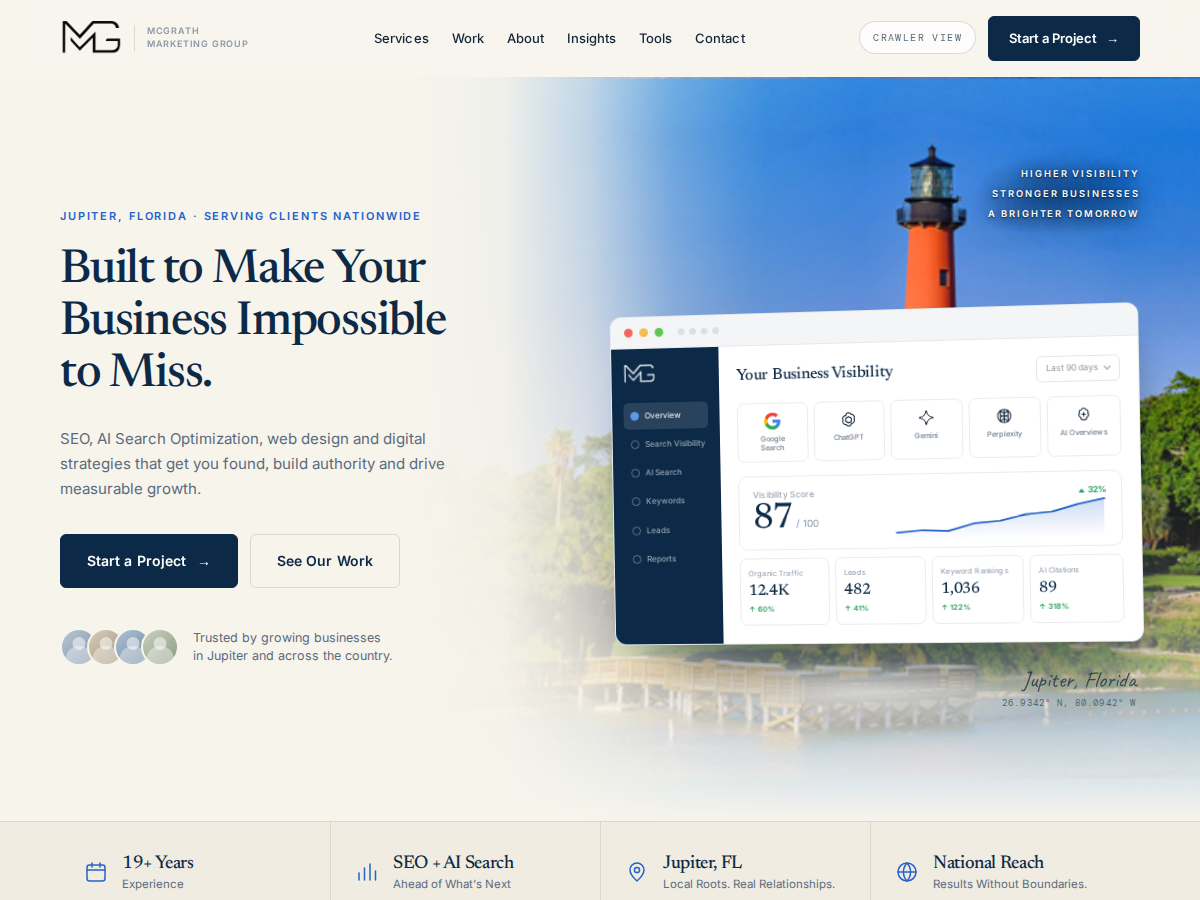
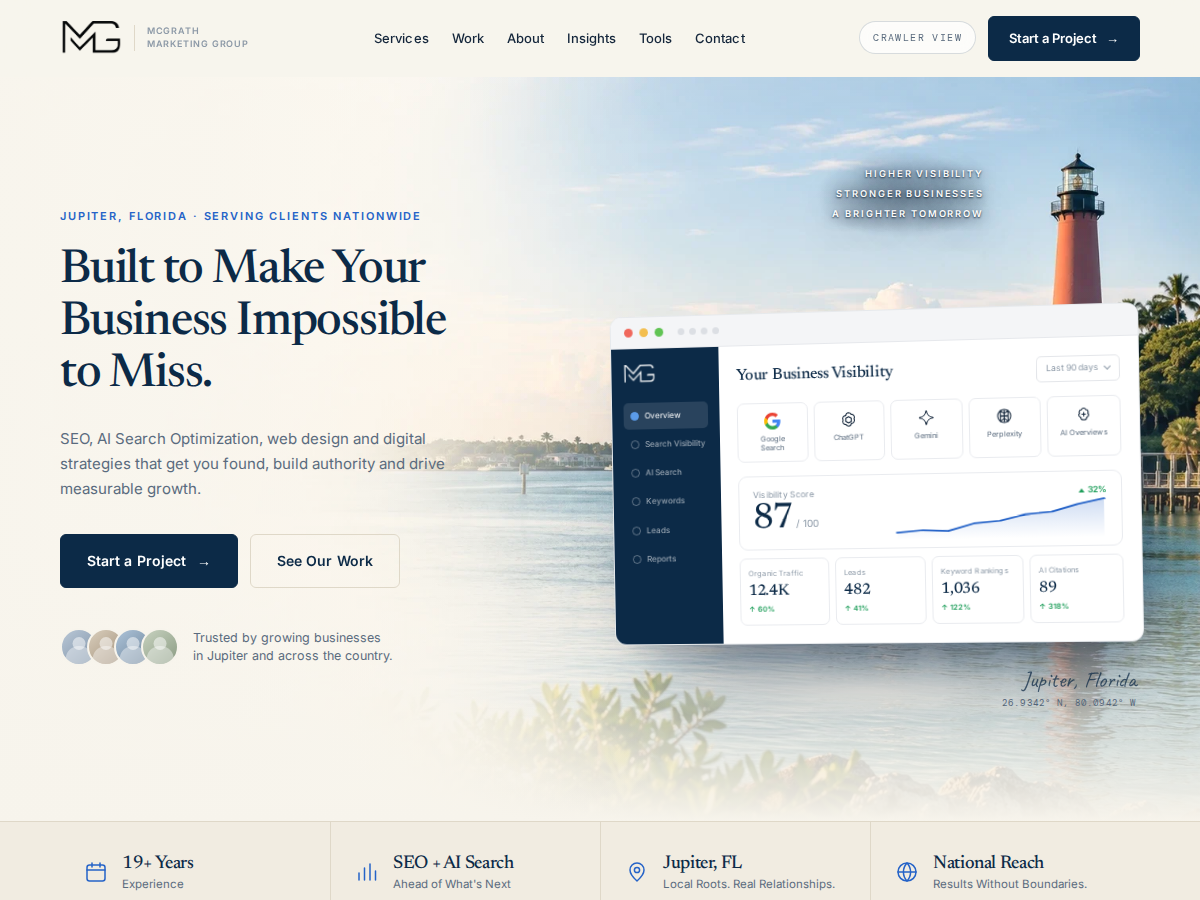
Adopt the supplied artwork, and the wide photograph for the hero
Six duotone plates now open the inner pages — the light over a rising chart on
SEO, a laptop on a seawall on Web Design, queries converging on one brand on AI
Visibility, the shoreline on About, a nautical chart of the Palm Beach coast on
Contact, and the brief on the blog. The page hero is rebuilt around them: a
wider text column beside a capped, rounded plate, because the art is square and
a full-width square made the band enormous.

mcg_page_art() prefers assets/img/page-{name}.* and falls back to the drawn
glyph, so a page never opens on an empty column and swapping art is a file drop.

The homepage hero takes the wide photograph. It carries its own fade on the
left, so the inset, the zoom and most of the horizontal veil all come off — the
image runs the full width at plain cover, and the veil now only guarantees the
headline a clean field instead of washing across the middle a second time. The
light stands at the right of this frame, so the three overlay words move to the
open sky beside it rather than across the tower.

The drawn Florida map is gone from the Jupiter section. It was the weakest thing
on the page and it sat directly beside real artwork.

The supplied files were 2048px squares at 1.8MB total, for slots about 420px
wide. Resampled to 900px (1920 for the hero) and re-encoded: 644KB for all eight
images, and the whole theme is now 1.1MB.

Verified at 390, 768, 1024, 1280, 1440 and 2000, plus crawler view: no
[…]

Changed region(s): [[0.3392, 0.0622, 1.0, 0.8711], [0.6167, 0.84, 0.6475, 0.8711]]

diff --git a/themes/mcgrath-chrome/style.css b/themes/mcgrath-chrome/style.css
@@ -211,7 +211,7 @@ body.crawl .vmode{background:var(--navy);color:var(--cream);border-color:var(--n
 }
 
 .heroPhoto{position:absolute;inset:0;overflow:hidden;z-index:0;}
-.heroPhoto .ph{position:absolute;inset:0 0 0 26%;filter:saturate(1.08) contrast(1.05);}
+.heroPhoto .ph{position:absolute;inset:0;filter:saturate(1.04) contrast(1.02);}
 .heroPhoto .ph .grade{display:none;}   /* the veil below does that job instead */
 
 /* Two passes: the paper reclaiming the left, and the floor of the section
@@ -219,14 +219,15 @@ body.crawl .vmode{background:var(--navy);color:var(--cream);border-color:var(--n
 .heroPhoto .veil{
   position:absolute;inset:0;
   background:
+    /* light touch: the photograph already fades itself out on the left, so
+       this only guarantees the headline a clean field and then gets out of
+       the way rather than washing across the middle a second time */
     linear-gradient(90deg,
-      var(--cream) 0%,
-      var(--cream) 34%,
-      rgba(247,244,236,.96) 42%,
-      rgba(247,244,236,.74) 49%,
-      rgba(247,244,236,.36) 56%,
-      rgba(247,244,236,.10) 64%,
-      rgba(247,244,236,0) 72%,
+      rgba(247,244,236,.88) 0%,
+      rgba(247,244,236,.70) 18%,
+      rgba(247,244,236,.38) 32%,
+      rgba(247,244,236,.12) 44%,
+      rgba(247,244,236,0) 56%,
       rgba(247,244,236,0) 100%),
     linear-gradient(180deg,
       rgba(247,244,236,.14) 0%,
@@ -279,7 +280,10 @@ body.crawl .vmode{background:var(--navy);color:var(--cream);border-color:var(--n
 .heroScene{position:relative;min-width:0;}
 
 .tag{
-  display:block;margin:0 0 clamp(34px,7vw,118px) auto;width:max-content;max-width:100%;
+  /* the light stands at the right of this photograph, so the words sit to its
+     left over open sky rather than across the tower */
+  display:block;width:max-content;max-width:100%;
+  margin:0 clamp(140px,13vw,210px) clamp(34px,7vw,118px) auto;
   text-align:right;position:relative;
   font-family:var(--body);font-weight:600;font-size:clamp(9px,.78vw,10.5px);
   letter-spacing:.2em;text-transform:uppercase;color:#fff;line-height:2.15;
@@ -747,20 +751,13 @@ body.crawl .vmode{background:var(--navy);color:var(--cream);border-color:var(--n
 .rootsBody > div > p{margin-top:20px;font-size:14.5px;line-height:1.7;color:var(--ink-70);max-width:44ch;}
 .rootsBody b.hl{font-weight:600;color:var(--navy);}
 .rootsBody .btn{margin-top:26px;}
-.rootsSide{position:relative;display:grid;grid-template-columns:minmax(0,1fr) auto;gap:clamp(12px,2vw,26px);align-items:center;}
+.rootsSide{position:relative;}
 .rootsList{list-style:none;margin:0;padding:0;display:flex;flex-direction:column;gap:20px;}
 .rootsList li{display:flex;align-items:flex-start;gap:12px;}
 .rootsList svg{width:19px;height:19px;flex:0 0 auto;color:var(--blue);margin-top:1px;}
 .rootsList b{display:block;font-size:13px;font-weight:600;color:var(--navy);line-height:1.25;}
 .rootsList span{display:block;font-size:12px;color:var(--ink-70);margin-top:3px;}
-.flMap{position:relative;width:clamp(84px,7.6vw,116px);opacity:.95;pointer-events:none;}
-.flMap svg{width:100%;height:auto;display:block;}
-.flMap .land{fill:#DCE6F0;stroke:#C4D3E2;stroke-width:1;}
-.flMap .pin{fill:var(--blue);}
-.flMap .ring{fill:none;stroke:var(--blue);stroke-width:1.4;opacity:.45;}
-.flMap .script{position:absolute;right:-12%;top:8%;font-size:clamp(14px,1.4vw,19px);transform:rotate(-8deg);white-space:nowrap;}
 @media(max-width:1240px){
-  .flMap{display:none;}
   .rootsSide{grid-template-columns:1fr;}
 }
 @media(max-width:980px){
@@ -922,6 +919,7 @@ body.crawl .brand .mark,body.crawl .footBrand .mark,body.crawl .dashNav .dlogo i
 }
 body.crawl .glyph .g-hole{fill:#080C0A;}
 body.crawl .phero::before{display:none;}
+body.crawl .pArt img{filter:grayscale(1) brightness(.42) sepia(1) hue-rotate(75deg) saturate(3.2);}
 body.crawl .heroPhoto .ph,body.crawl .rootsPic .ph{filter:grayscale(1) brightness(.4) sepia(1) hue-rotate(75deg) saturate(3);}
 body.crawl .heroPhoto .veil{background:linear-gradient(90deg,#06080A 0%,#06080A 34%,rgba(6,8,10,.86) 52%,rgba(6,8,10,.5) 74%,rgba(6,8,10,.25) 100%),linear-gradient(180deg,rgba(6,8,10,.5) 0%,rgba(6,8,10,0) 40%,rgba(6,8,10,.8) 88%,#06080A 100%);}
 body.crawl .tag{color:#9FF3B8;text-shadow:none;}
@@ -983,6 +981,7 @@ body.crawl .navcta{background:#0A120D;color:#9FF3B8;border-color:#1F5236;}
 
 .phero{
   position:relative;overflow:hidden;background:var(--cream-2);
+  --art-cream:#FAF7EF;
   border-bottom:1px solid var(--line);padding-block:clamp(44px,5.5vw,80px);
 }
 /* a quiet wash, so the band is not a flat rectangle */
@@ -994,17 +993,25 @@ body.crawl .navcta{background:#0A120D;color:#9FF3B8;border-color:#1F5236;}
 }
 .phero .pin{
   position:relative;z-index:2;max-width:var(--maxw);margin-inline:auto;
-  display:grid;grid-template-columns:minmax(0,1fr) auto;
-  gap:clamp(24px,4vw,64px);align-items:center;
+  display:grid;grid-template-columns:minmax(0,1.3fr) minmax(0,.7fr);
+  gap:clamp(24px,4vw,56px);align-items:center;
 }
-.pheroTxt{min-width:0;max-width:56ch;}
+.pheroTxt{min-width:0;max-width:52ch;}
 .phero .mono{color:var(--blue);letter-spacing:.17em;font-weight:500;}
 .phero h1{font-size:clamp(30px,4.2vw,56px);letter-spacing:-.03em;margin-top:14px;line-height:1.06;}
 .phero .sub{margin-top:18px;max-width:56ch;font-size:clamp(15px,1.35vw,17.5px);line-height:1.65;color:var(--ink-70);}
 .phero .plogo{height:30px;width:auto;margin-bottom:18px;display:block;opacity:.85;}
 
 /* ---------- page glyphs: one drawn figure per section ---------- */
-.glyph{width:clamp(150px,17vw,232px);flex:0 0 auto;}
+/* the artwork: a plate, rounded and softly lifted off the band. Capped,
+   because the art is square and a full-width square makes the band enormous. */
+.pArt{margin:0 0 0 auto;min-width:0;width:100%;max-width:clamp(240px,30vw,420px);}
+.pArt img{
+  display:block;width:100%;height:auto;border-radius:16px;
+  box-shadow:0 30px 60px -38px rgba(12,42,71,.4),0 3px 12px -8px rgba(12,42,71,.1);
+}
+/* the drawn glyph is the fallback when a page has no artwork yet */
+.glyph{width:clamp(150px,17vw,232px);margin-inline:auto;}
 .glyph svg{width:100%;height:auto;display:block;overflow:visible;}
 .glyph .g-line,.glyph .g-bar,.glyph .g-node,.glyph .g-accent{
   stroke:var(--navy);stroke-width:2.2;stroke-linecap:round;stroke-linejoin:round;fill:none;
@@ -1022,6 +1029,8 @@ body.crawl .navcta{background:#0A120D;color:#9FF3B8;border-color:#1F5236;}
 .glyph--aeo .g-fill{fill:var(--blue);}
 @media(max-width:860px){
   .phero .pin{grid-template-columns:minmax(0,1fr);}
+  .pheroTxt{max-width:none;}
+  .pArt{margin-inline:0;max-width:380px;}
   .glyph{display:none;}
 }
 

diff --git a/themes/mcgrath-chrome/front-page.php b/themes/mcgrath-chrome/front-page.php
@@ -19,7 +19,7 @@ get_header();
 	     dissolves leftward into the paper, so the headline sits on clean ground
 	     and the dashboard floats over open water. -->
 	<div class="heroPhoto" aria-hidden="true">
-		<?php mcg_plate( 'hero', '', '18% 4%', '118% auto' ); ?>
+		<?php mcg_plate( 'hero', '', '50% 34%' ); ?>
 		<span class="veil"></span>
 	</div>
 
@@ -343,7 +343,7 @@ echo '<span data-q class="mk">' . esc_html( wp_strip_all_tags( $mcg_mark ) ) . '
 
 <!-- ======================= JUPITER ROOTS ========================= -->
 <section class="roots" id="home-base">
-	<div class="rootsPic" aria-hidden="true"><?php mcg_plate( 'roots', '', '62% 46%' ); ?></div>
+	<div class="rootsPic" aria-hidden="true"><?php mcg_plate( 'roots', '', '50% 50%' ); ?></div>
 
 	<div class="rootsBody">
 		<div class="rv">
@@ -371,14 +371,6 @@ echo '<span data-q class="mk">' . esc_html( wp_strip_all_tags( $mcg_mark ) ) . '
 				<?php endforeach; ?>
 			</ul>
 
-			<div class="flMap" aria-hidden="true">
-				<svg viewBox="0 0 150 190">
-					<path class="land" d="M14 12h66l6 18 10 8 6 22 12 10 8 20-2 24-10 26-10 22-12 18-14 8-10-4-4-14 6-18 8-18 4-20-6-16-14-10-20-6-16-12-8-16-2-18 2-24Z"/>
-					<circle class="ring" cx="112" cy="118" r="11"/>
-					<circle class="pin" cx="112" cy="118" r="4.4"/>
-				</svg>
-				<span class="script"><?php esc_html_e( 'Jupiter, FL', 'mcgrath-chrome' ); ?></span>
-			</div>
 		</div>
 	</div>
 </section>

diff --git a/themes/mcgrath-chrome/inc/content.php b/themes/mcgrath-chrome/inc/content.php
@@ -326,3 +326,31 @@ function mcg_social() {
 	}
 	return $out;
 }
+
+/**
+ * A page's opening figure. Uses the artwork in assets/img/page-{name}.* when it
+ * is there, and falls back to the drawn glyph when it is not — so a page never
+ * opens on an empty column, and swapping art is a file drop.
+ *
+ * @param string $name seo | webdesign | aeo | about | contact | writing
+ * @param string $alt  Alternative text; empty marks it decorative.
+ */
+function mcg_page_art( $name, $alt = '' ) {
+	$dir = get_template_directory() . '/assets/img/';
+	$uri = get_template_directory_uri() . '/assets/img/';
+
+	foreach ( array( 'webp', 'jpg', 'jpeg', 'png' ) as $ext ) {
+		$file = 'page-' . $name . '.' . $ext;
+		if ( file_exists( $dir . $file ) ) {
+			printf(
+				'<figure class="pArt"><img src="%s" alt="%s" width="900" height="880" loading="lazy" decoding="async"%s></figure>',
+				esc_url( $uri . $file ),
+				esc_attr( $alt ),
+				$alt ? '' : ' aria-hidden="true"'
+			);
+			return;
+		}
+	}
+
+	mcg_glyph( $name );
+}

diff --git a/themes/mcgrath-chrome/template-contact.php b/themes/mcgrath-chrome/template-contact.php
@@ -15,7 +15,7 @@ get_header();
 			<h1 data-tag="&lt;h1&gt;"><?php esc_html_e( 'Get a Free Jupiter SEO Audit', 'mcgrath-chrome' ); ?></h1>
 			<p class="sub"><?php esc_html_e( 'I will look at your rankings, your site health and whether AI answers mention you at all, then send back the three things worth fixing first. It costs nothing and you keep the findings either way.', 'mcgrath-chrome' ); ?></p>
 		</div>
-		<?php mcg_glyph( 'contact' ); ?>
+		<?php mcg_page_art( 'contact', 'A nautical chart of the Palm Beach coast with Jupiter marked' ); ?>
 	</div>
 </section>
 

diff --git a/themes/mcgrath-chrome/template-aeo.php b/themes/mcgrath-chrome/template-aeo.php
@@ -15,7 +15,7 @@ get_header();
 			<h1 data-tag="&lt;h1&gt;"><?php esc_html_e( 'Get Cited by AI, Not Just Ranked', 'mcgrath-chrome' ); ?></h1>
 			<p class="sub"><?php esc_html_e( 'When a buyer asks ChatGPT, Gemini, Perplexity or a Google AI Overview who to call in Jupiter, three names come back. This is the work that makes one of them yours.', 'mcgrath-chrome' ); ?></p>
 		</div>
-		<?php mcg_glyph( 'aeo' ); ?>
+		<?php mcg_page_art( 'aeo', 'Search queries from Google, ChatGPT, Gemini and Perplexity converging on one brand' ); ?>
 	</div>
 </section>
 

diff --git a/themes/mcgrath-chrome/template-seo.php b/themes/mcgrath-chrome/template-seo.php
@@ -15,7 +15,7 @@ get_header();
 			<h1 data-tag="&lt;h1&gt;"><?php esc_html_e( 'SEO Company in Jupiter, FL', 'mcgrath-chrome' ); ?></h1>
 			<p class="sub"><?php esc_html_e( 'Local and national search work for businesses in Jupiter, Palm Beach Gardens and Tequesta. Run by the person who does it, priced in the open, with no long contract.', 'mcgrath-chrome' ); ?></p>
 		</div>
-		<?php mcg_glyph( 'seo' ); ?>
+		<?php mcg_page_art( 'seo', 'Jupiter Inlet lighthouse over a rising chart of search rankings' ); ?>
 	</div>
 </section>
 

diff --git a/themes/mcgrath-chrome/template-webdesign.php b/themes/mcgrath-chrome/template-webdesign.php
@@ -15,7 +15,7 @@ get_header();
 			<h1 data-tag="&lt;h1&gt;"><?php esc_html_e( 'Web Design in Jupiter, FL', 'mcgrath-chrome' ); ?></h1>
 			<p class="sub"><?php esc_html_e( 'Custom WordPress sites for Palm Beach County businesses. Fast, built to rank from launch day, and handed over so you own every part of it.', 'mcgrath-chrome' ); ?></p>
 		</div>
-		<?php mcg_glyph( 'webdesign' ); ?>
+		<?php mcg_page_art( 'webdesign', 'A laptop on a Jupiter seawall showing a coastal website' ); ?>
 	</div>
 </section>
 

diff --git a/themes/mcgrath-chrome/template-about.php b/themes/mcgrath-chrome/template-about.php
@@ -15,7 +15,7 @@ get_header();
 			<h1 data-tag="&lt;h1&gt;"><?php esc_html_e( 'One Person, Not an Agency', 'mcgrath-chrome' ); ?></h1>
 			<p class="sub"><?php esc_html_e( 'Tyler McGrath. Search and web work for Jupiter and the surrounding area, done by the person you talk to.', 'mcgrath-chrome' ); ?></p>
 		</div>
-		<?php mcg_glyph( 'about' ); ?>
+		<?php mcg_page_art( 'about', 'The Jupiter shoreline' ); ?>
 	</div>
 </section>
 

diff --git a/themes/mcgrath-chrome/archive.php b/themes/mcgrath-chrome/archive.php
@@ -14,7 +14,7 @@ get_header();
 			<span class="mono"><?php esc_html_e( 'Notes on search', 'mcgrath-chrome' ); ?></span>
 			<h1 data-tag="&lt;h1&gt;"><?php echo esc_html( is_home() && ! is_front_page() ? get_the_title( get_option( 'page_for_posts' ) ) : __( 'Writing', 'mcgrath-chrome' ) ); ?></h1>
 		</div>
-		<?php mcg_glyph( 'writing' ); ?>
+		<?php mcg_page_art( 'writing', '' ); ?>
 	</div>
 </section>
 

diff --git a/themes/mcgrath-chrome/index.php b/themes/mcgrath-chrome/index.php
@@ -14,7 +14,7 @@ get_header();
 			<span class="mono"><?php esc_html_e( 'Notes on search', 'mcgrath-chrome' ); ?></span>
 			<h1 data-tag="&lt;h1&gt;"><?php echo esc_html( is_home() && ! is_front_page() ? get_the_title( get_option( 'page_for_posts' ) ) : __( 'Writing', 'mcgrath-chrome' ) ); ?></h1>
 		</div>
-		<?php mcg_glyph( 'writing' ); ?>
+		<?php mcg_page_art( 'writing', '' ); ?>
 	</div>
 </section>
 

diff --git a/themes/mcgrath-chrome/search.php b/themes/mcgrath-chrome/search.php
@@ -14,7 +14,7 @@ get_header();
 			<span class="mono"><?php esc_html_e( 'Notes on search', 'mcgrath-chrome' ); ?></span>
 			<h1 data-tag="&lt;h1&gt;"><?php echo esc_html( is_home() && ! is_front_page() ? get_the_title( get_option( 'page_for_posts' ) ) : __( 'Writing', 'mcgrath-chrome' ) ); ?></h1>
 		</div>
-		<?php mcg_glyph( 'writing' ); ?>
+		<?php mcg_page_art( 'writing', '' ); ?>
 	</div>
 </section>
 
